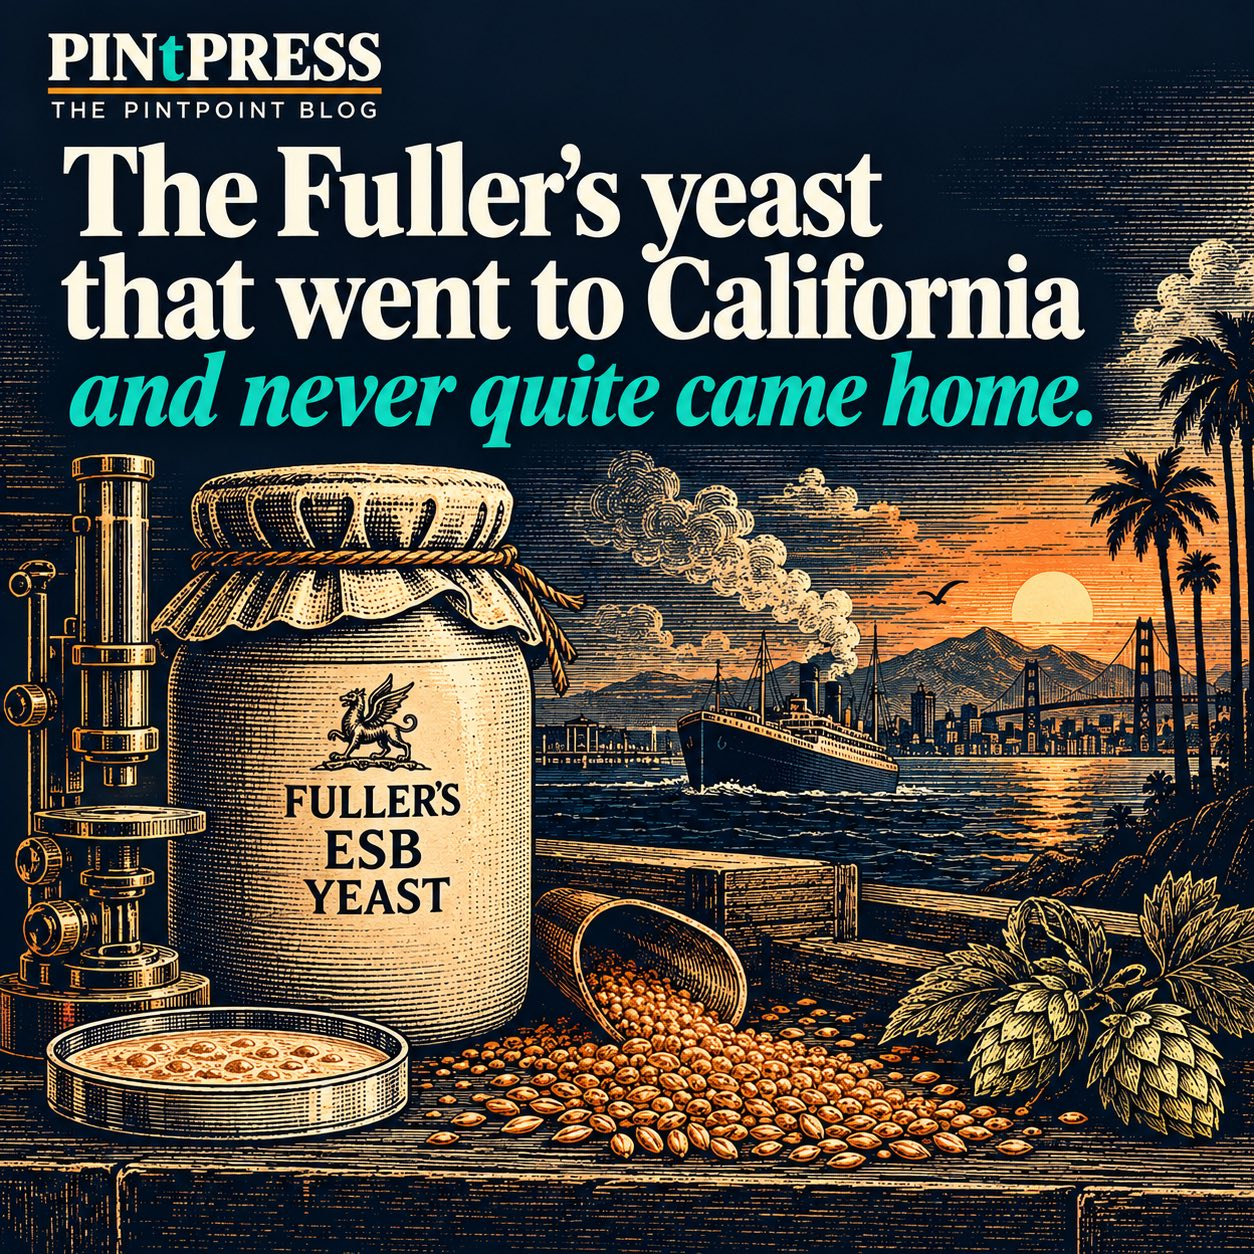
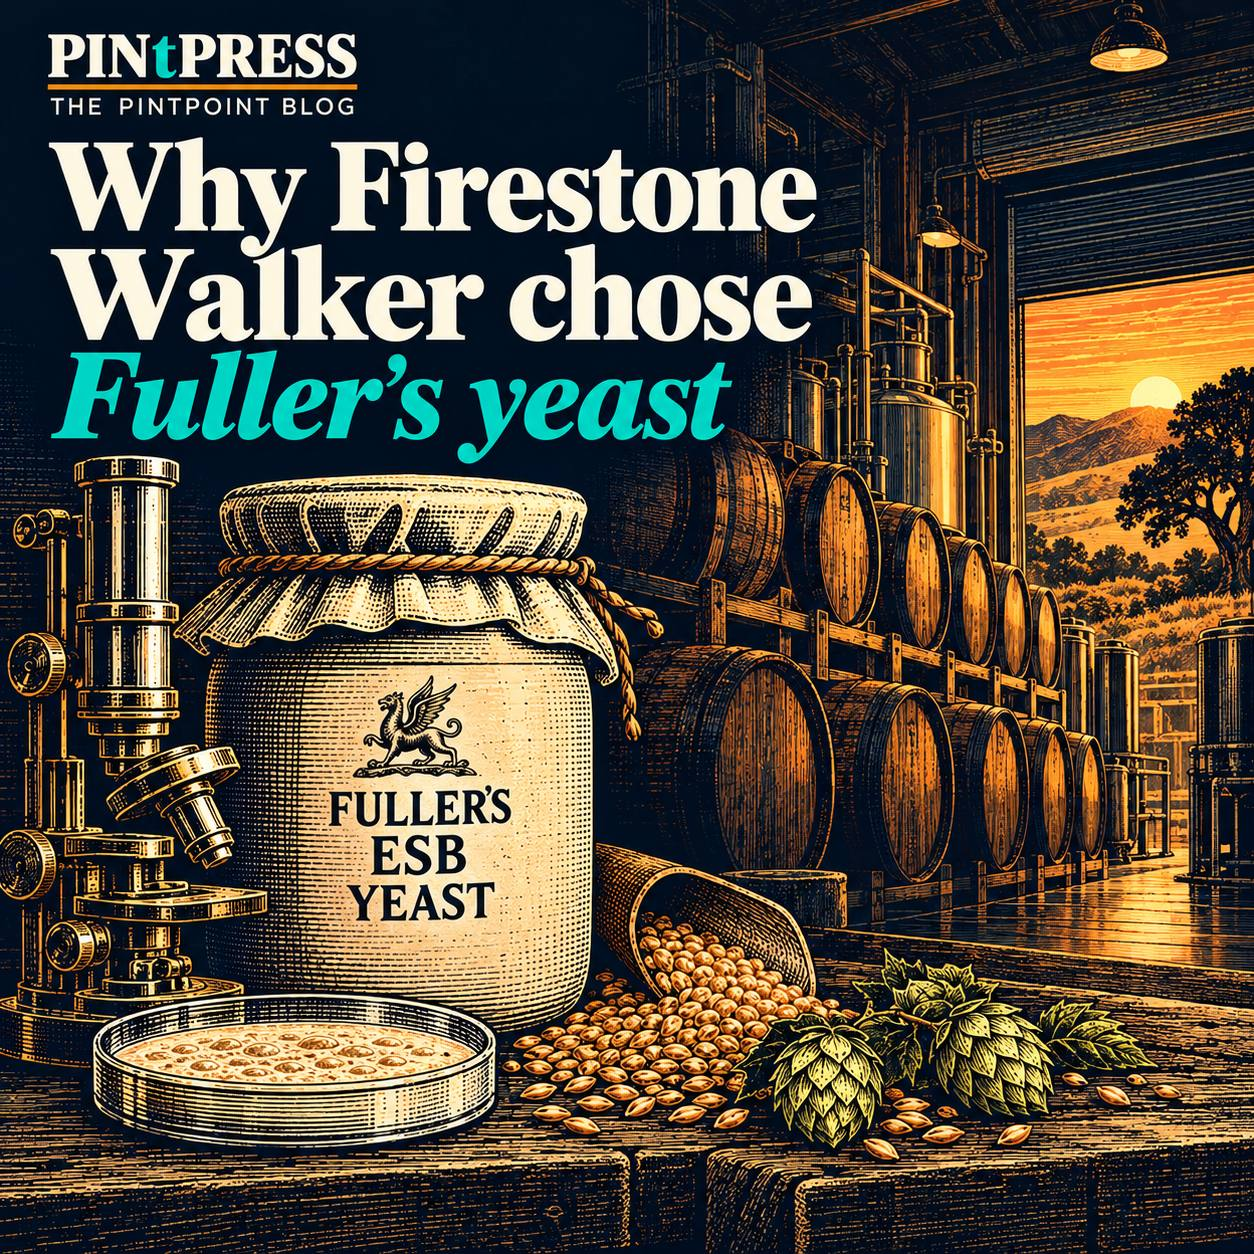
Yeast piece: the cover is in the right half of California now
Replaces the share card. The old one carried the pre-retitle headline and
put the brewery in San Francisco, under the Golden Gate, which is Anchor's
city and the companion piece. Firestone Walker is in Paso Robles, about
200 miles south.

The steamship went with it. It read as the strain being shipped over from
London, which the piece does not claim and which House corrected us on
once already.

In their place, the Firestone Union: the rack of 60-gallon oak barrels
the brewery part-ferments DBA in, which is where this yeast actually went
to work. Same path and dimensions, so no meta change beyond og:image:alt,
which described the bridge and the ship.

Prompt kept at blog/drafts/_fullers-yeast-cover-prompt.md with the
brewery's own wording as the source.

Claude-Session: https://claude.ai/code/session_01Pk4X9k7dSDBKykffX1undZ

diff --git a/blog/drafts/fullers-yeast-firestone-walker.html b/blog/drafts/fullers-yeast-firestone-walker.html
@@ -42,7 +42,7 @@
   <meta property="og:image:type" content="image/jpeg" />
   <meta property="og:image:width" content="1254" />
   <meta property="og:image:height" content="1254" />
-  <meta property="og:image:alt" content="PINtPRESS card: a stoneware jar labelled FULLER&rsquo;S ESB YEAST with the Fuller&rsquo;s griffin, on a dock beside a laboratory microscope and a petri dish of yeast culture, with spilled malt and hop cones in front. Behind it a steamship crosses a sunset bay towards the Golden Gate Bridge and palm trees." />
+  <meta property="og:image:alt" content="PINtPRESS card: a stoneware jar labelled FULLER&rsquo;S ESB YEAST with the Fuller&rsquo;s griffin, on a brewery bench beside a laboratory microscope and a petri dish of yeast culture, with spilled malt and hop cones in front. Behind it a two-tier rack of oak barrels recedes into a lamplit brewhouse, and low sun falls on the hills through an open door." />
   <meta property="fb:app_id" content="1892965231402903" />
   <meta name="twitter:card" content="summary_large_image" />
   <meta name="twitter:image" content="https://pintpoint.co.uk/blog/images/fullers-yeast-firestone-walker.jpg" />

diff --git a/blog/fullers-yeast-firestone-walker.html b/blog/fullers-yeast-firestone-walker.html
@@ -42,7 +42,7 @@
   <meta property="og:image:type" content="image/jpeg" />
   <meta property="og:image:width" content="1254" />
   <meta property="og:image:height" content="1254" />
-  <meta property="og:image:alt" content="PINtPRESS card: a stoneware jar labelled FULLER&rsquo;S ESB YEAST with the Fuller&rsquo;s griffin, on a dock beside a laboratory microscope and a petri dish of yeast culture, with spilled malt and hop cones in front. Behind it a steamship crosses a sunset bay towards the Golden Gate Bridge and palm trees." />
+  <meta property="og:image:alt" content="PINtPRESS card: a stoneware jar labelled FULLER&rsquo;S ESB YEAST with the Fuller&rsquo;s griffin, on a brewery bench beside a laboratory microscope and a petri dish of yeast culture, with spilled malt and hop cones in front. Behind it a two-tier rack of oak barrels recedes into a lamplit brewhouse, and low sun falls on the hills through an open door." />
   <meta property="fb:app_id" content="1892965231402903" />
   <meta name="twitter:card" content="summary_large_image" />
   <meta name="twitter:image" content="https://pintpoint.co.uk/blog/images/fullers-yeast-firestone-walker.jpg" />
